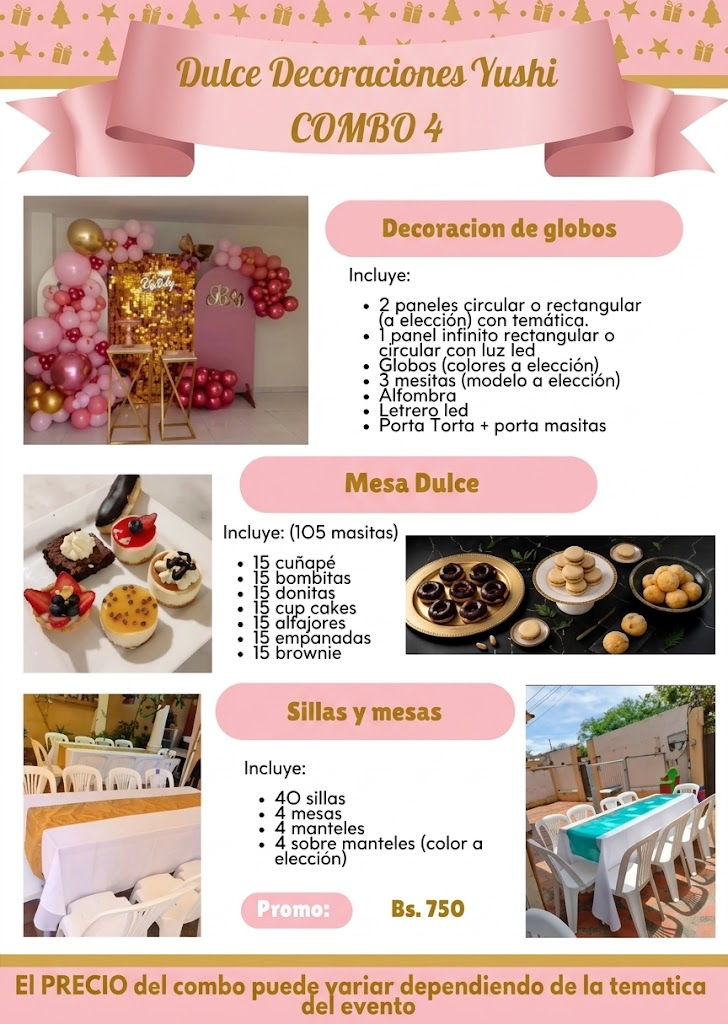
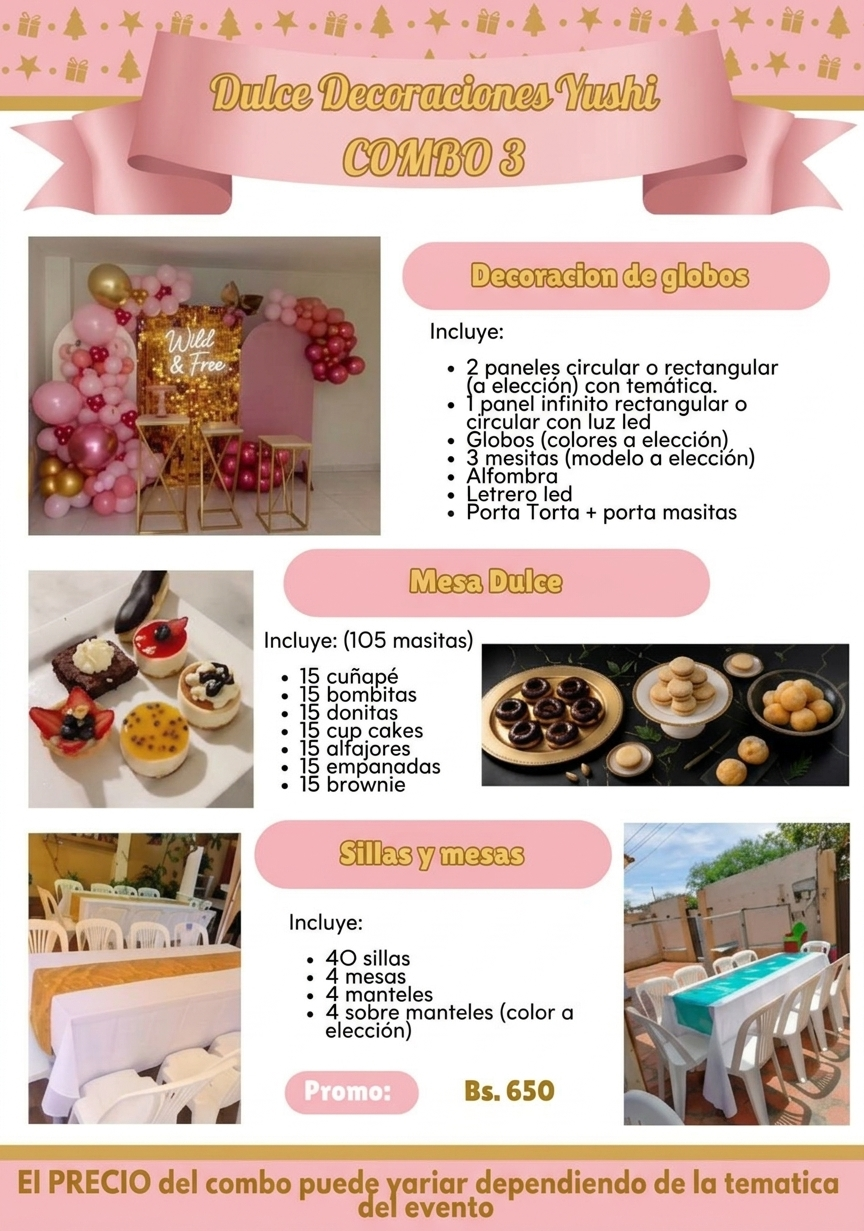
texto

diff --git a/index.html b/index.html
@@ -106,7 +106,7 @@
             </div>
         </div>
         <div class="instagram-feed">
-            <h3>SÍGUENOS EN INSTAGRAM <br><span class="ig-handle">(@dulces_yushi_bo)</span></h3>
+            <h3>SÍGUENOS EN FACEBOOK <br><span class="ig-handle">(Dulce Decoracion YUSHI)</span></h3>
             <div class="ig-grid">
                 <img src="images/ig-1.jpg" alt="IG 1">
                 <img src="images/ig-2.jpg" alt="IG 2">
